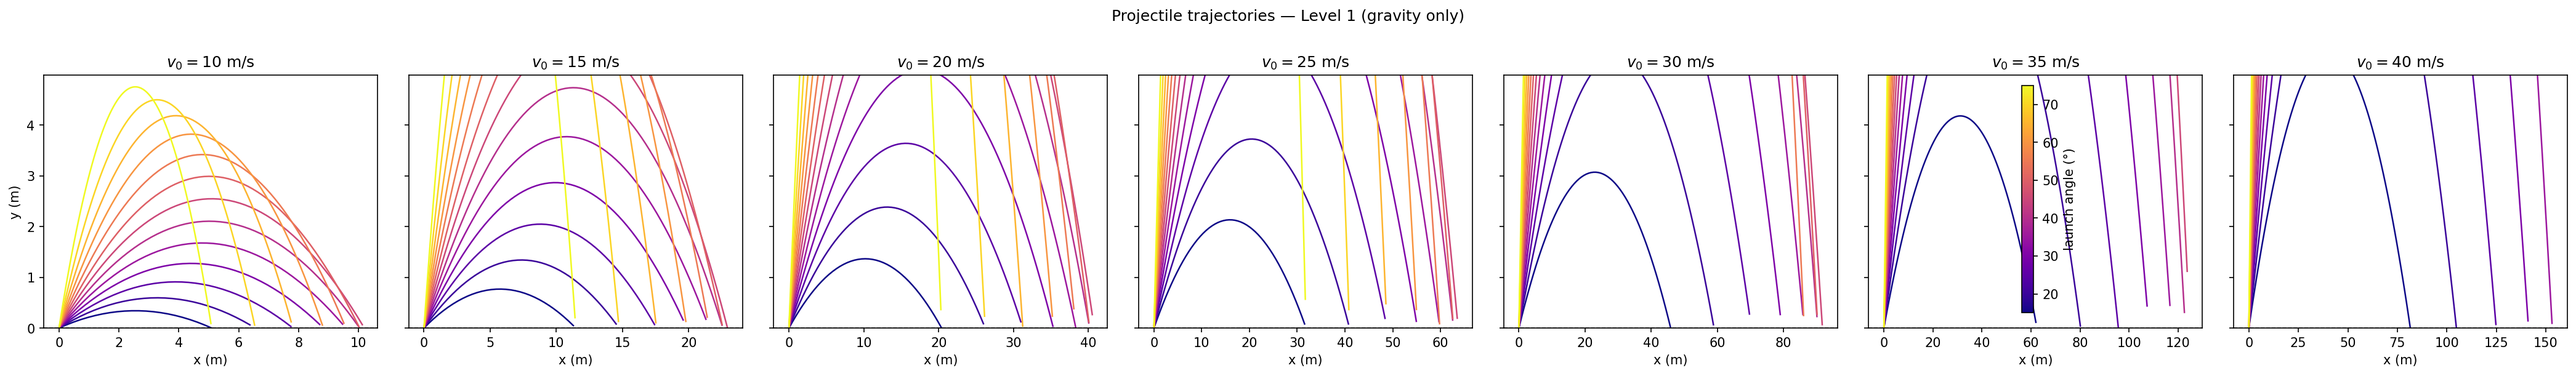
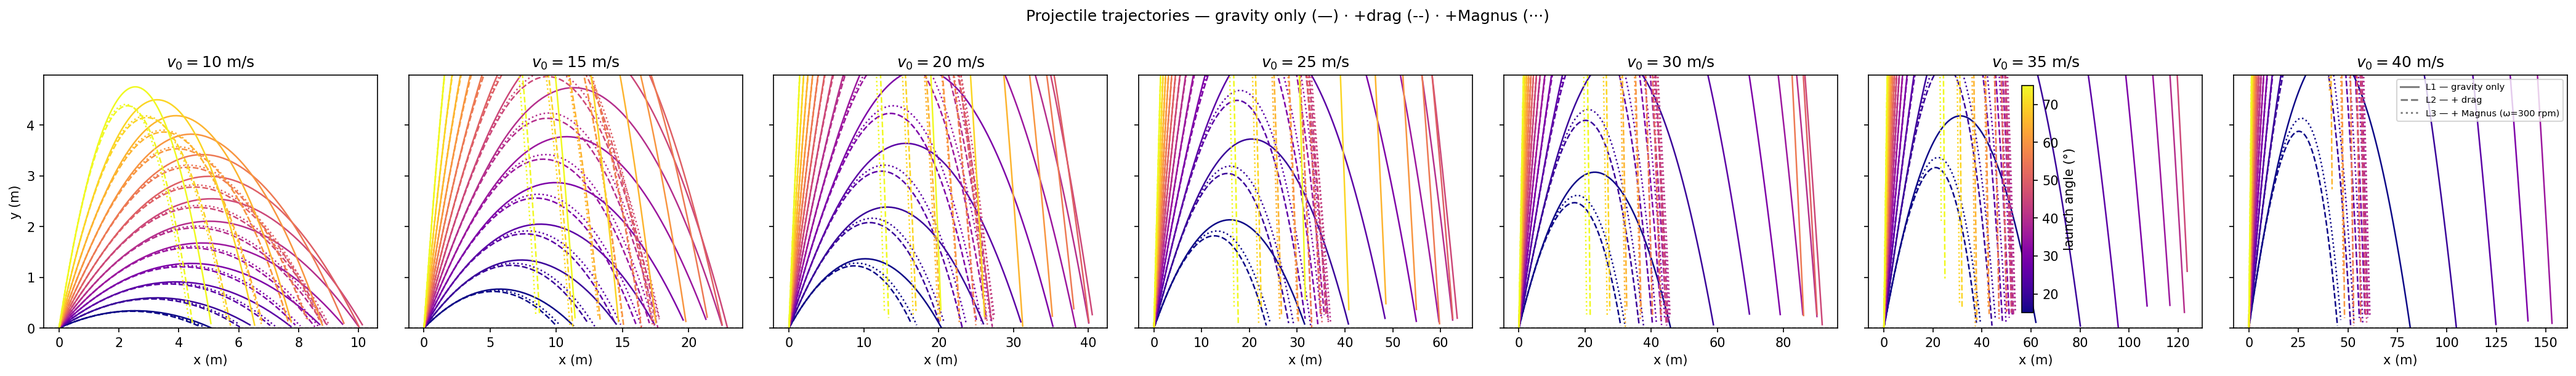
ch1 datas added

diff --git a/simulations/projectile/proejectile.py b/simulations/projectile/proejectile.py
@@ -6,6 +6,11 @@ import matplotlib.cm as cm
 from diffrax import diffeqsolve, ODETerm, Tsit5, SaveAt, PIDController
 from abc import ABC, abstractmethod
 from dataclasses import dataclass, field
+import json
+from pathlib import Path 
+
+out = Path("../../docs/chapters/01-nature-and-math/data")
+out.mkdir(parents=True, exist_ok=True)
 
 
 @dataclass
@@ -41,17 +46,64 @@ class Level1(ProjectileModel): # subclass of ProjectileModel that implements the
     def vector_field(self, t, state, args):
         x, y, vx, vy = state
         return np.array([vx, vy, 0.0, -self.g])
+
+# Level 2
+@dataclass
+class Level2(ProjectileModel):
+    """Gravity + quadratic aerodynamic drag."""
+    rho: float = 1.225
+    Cd: float = 0.47
+    r: float  = 0.033
+    A: float = field(init=False)
+    m: float = 0.057
+    k: float = field(init=False)
+    def __post_init__(self):
+        self.A = np.pi * self.r**2
+        self.k = self.rho * self.Cd * self.A / (2 * self.m)
+    def vector_field(self, t, state, args):
+        x, y, vx, vy = state
+        v_mag = np.sqrt(vx**2 + vy**2)
+        return np.array([vx, vy, -self.k * v_mag * vx, -self.g - self.k * v_mag * vy])
     
+# Level 3
+@dataclass
+class Level3(ProjectileModel):
+    """Gravity + drag + Magnus force (spin)."""
+    rho: float = 1.225
+    Cd: float = 0.47
+    Cl: float = 0.33
+    omega: float = 0.0
+    r: float  = 0.033
+    A: float = field(init=False)
+    m: float = 0.057
+    k: float = field(init=False)
+    S: float = field(init=False)
+    def __post_init__(self):
+        self.A = np.pi * self.r**2
+        self.k = self.rho * self.Cd * self.A / (2 * self.m)
+        self.S = self.Cl * self.rho * self.A * self.r
+    def vector_field(self, t, state, args):
+        x, y, vx, vy = state
+        v_mag = np.sqrt(vx**2 + vy**2)
+        ax = -self.S * self.omega / self.m * vy - self.k * v_mag * vx
+        ay = self.S * self.omega / self.m * vx - self.k * v_mag * vy - self.g
+        return np.array([vx, vy, ax, ay])
+
+
 
 V0_VALUES    = range(10, 45, 5)    # 10 15 20 … 40
 THETA_VALUES = range(15, 80, 5)    # 15 20 … 75
 SPIN_RPM     = 300                 # rpm → rad/s below
+omega = SPIN_RPM * 2 * onp.pi / 60
+
 
 v0s     = np.array([float(v) for v in V0_VALUES])     # shape (7,)
 thetas  = np.array([float(t) for t in THETA_VALUES])  # shape (13,)
 
 models = {
     "level1": Level1(),
+    "level2": Level2(),
+    "level3": Level3(omega=omega)
 }
 
 # precompute all trajectories in one batched+JIT'd call per model
@@ -66,6 +118,26 @@ for name, model in models.items():
 
 theta_list = list(THETA_VALUES)
 v0_list    = list(V0_VALUES)
+for i_v0, v0 in enumerate(v0_list):
+    for i_theta, theta in enumerate(theta_list):
+
+        payload = {"params": {"v0": v0, "theta_deg": theta}, "models": {}}
+
+        for name in models:
+            x = trajectories[name][0][i_v0, i_theta]  # slice → shape (n_points,)
+            y = trajectories[name][1][i_v0, i_theta]
+
+            mask = onp.array(y) >= 0                   # clip below ground
+            payload["models"][name] = {
+                "x": onp.array(x[mask]).round(4).tolist(),
+                "y": onp.array(y[mask]).round(4).tolist(),
+            }
+
+        fname = out / f"projectile_v0_{v0}_theta_{theta}.json"
+        fname.write_text(json.dumps(payload, separators=(",", ":")))
+        print(f"wrote {fname.name}")
+
+
 cmap       = cm.plasma
 
 fig, axes = plt.subplots(
@@ -74,14 +146,17 @@ fig, axes = plt.subplots(
     sharey=True,
 )
 
+linestyles = {"level1": "-", "level2": "--", "level3": ":"}  # solid / dashed / dotted
+
 for i_v0, (ax, v0) in enumerate(zip(axes, v0_list)):
     for i_theta, theta in enumerate(theta_list):
         color = cmap(i_theta / (len(theta_list) - 1))
         for name in models:
             x = trajectories[name][0][i_v0, i_theta]
             y = trajectories[name][1][i_v0, i_theta]
-            mask  = y >= 0
-            ax.plot(x[mask], y[mask], color=color, linewidth=1.2)
+            mask = y >= 0
+            ax.plot(x[mask], y[mask], color=color,
+                    linestyle=linestyles[name], linewidth=1.2)
 
     ax.set_title(f"$v_0 = {v0}$ m/s")
     ax.set_xlabel("x (m)")
@@ -90,11 +165,23 @@ for i_v0, (ax, v0) in enumerate(zip(axes, v0_list)):
 
 axes[0].set_ylabel("y (m)")
 
+# legend for model levels
+from matplotlib.lines import Line2D
+labels = {
+    "level1": "L1 — gravity only",
+    "level2": "L2 — + drag",
+    "level3": f"L3 — + Magnus (ω={SPIN_RPM} rpm)",
+}
+legend_handles = [Line2D([0], [0], color="gray", linestyle=ls, linewidth=1.5,
+                         label=labels[name])
+                  for name, ls in linestyles.items()]
+axes[-1].legend(handles=legend_handles, loc="upper right", fontsize=7)
+
 sm = plt.cm.ScalarMappable(cmap=cmap, norm=plt.Normalize(theta_list[0], theta_list[-1]))
 sm.set_array([])
 fig.colorbar(sm, ax=axes, label="launch angle (°)", shrink=0.8)
 
-fig.suptitle("Projectile trajectories — Level 1 (gravity only)", y=1.01)
+fig.suptitle("Projectile trajectories — gravity only (—) · +drag (--) · +Magnus (···)", y=1.01)
 plt.tight_layout()
 plt.savefig("trajectories.png", dpi=150, bbox_inches="tight")
 plt.show()
